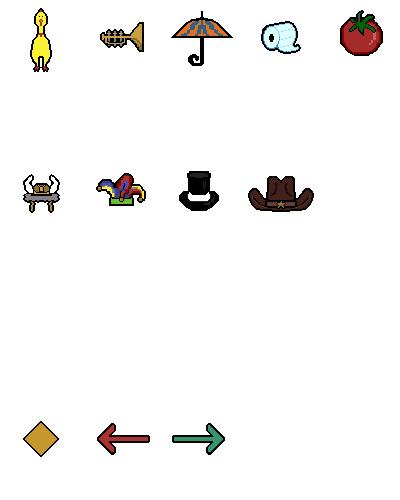
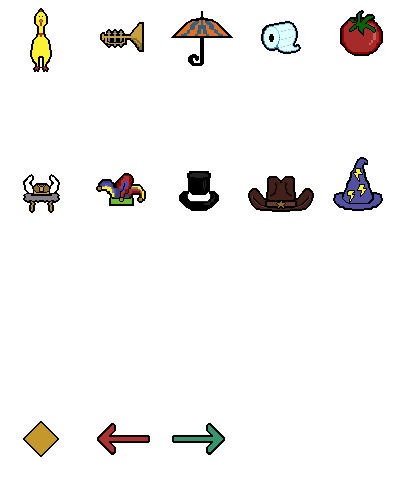
Add magician hat

Changed region(s): [[0.81, 0.3, 0.96, 0.42]]

diff --git a/src/constants.ts b/src/constants.ts
@@ -19,6 +19,7 @@ export enum Costumes {
   jesterHat = "jesterHat",
   topHat = "topHat",
   sherifHat = "sherifHat",
+  magicianHat = "magicianHat",
 }
 
 export const IconPosition: { [key: string]: number } = {
@@ -31,6 +32,7 @@ export const IconPosition: { [key: string]: number } = {
   jesterHat: 11,
   topHat: 12,
   sherifHat: 13,
+  magicianHat: 14,
   stageCenter: 25,
   stageLeft: 26,
   stageRight: 27,
